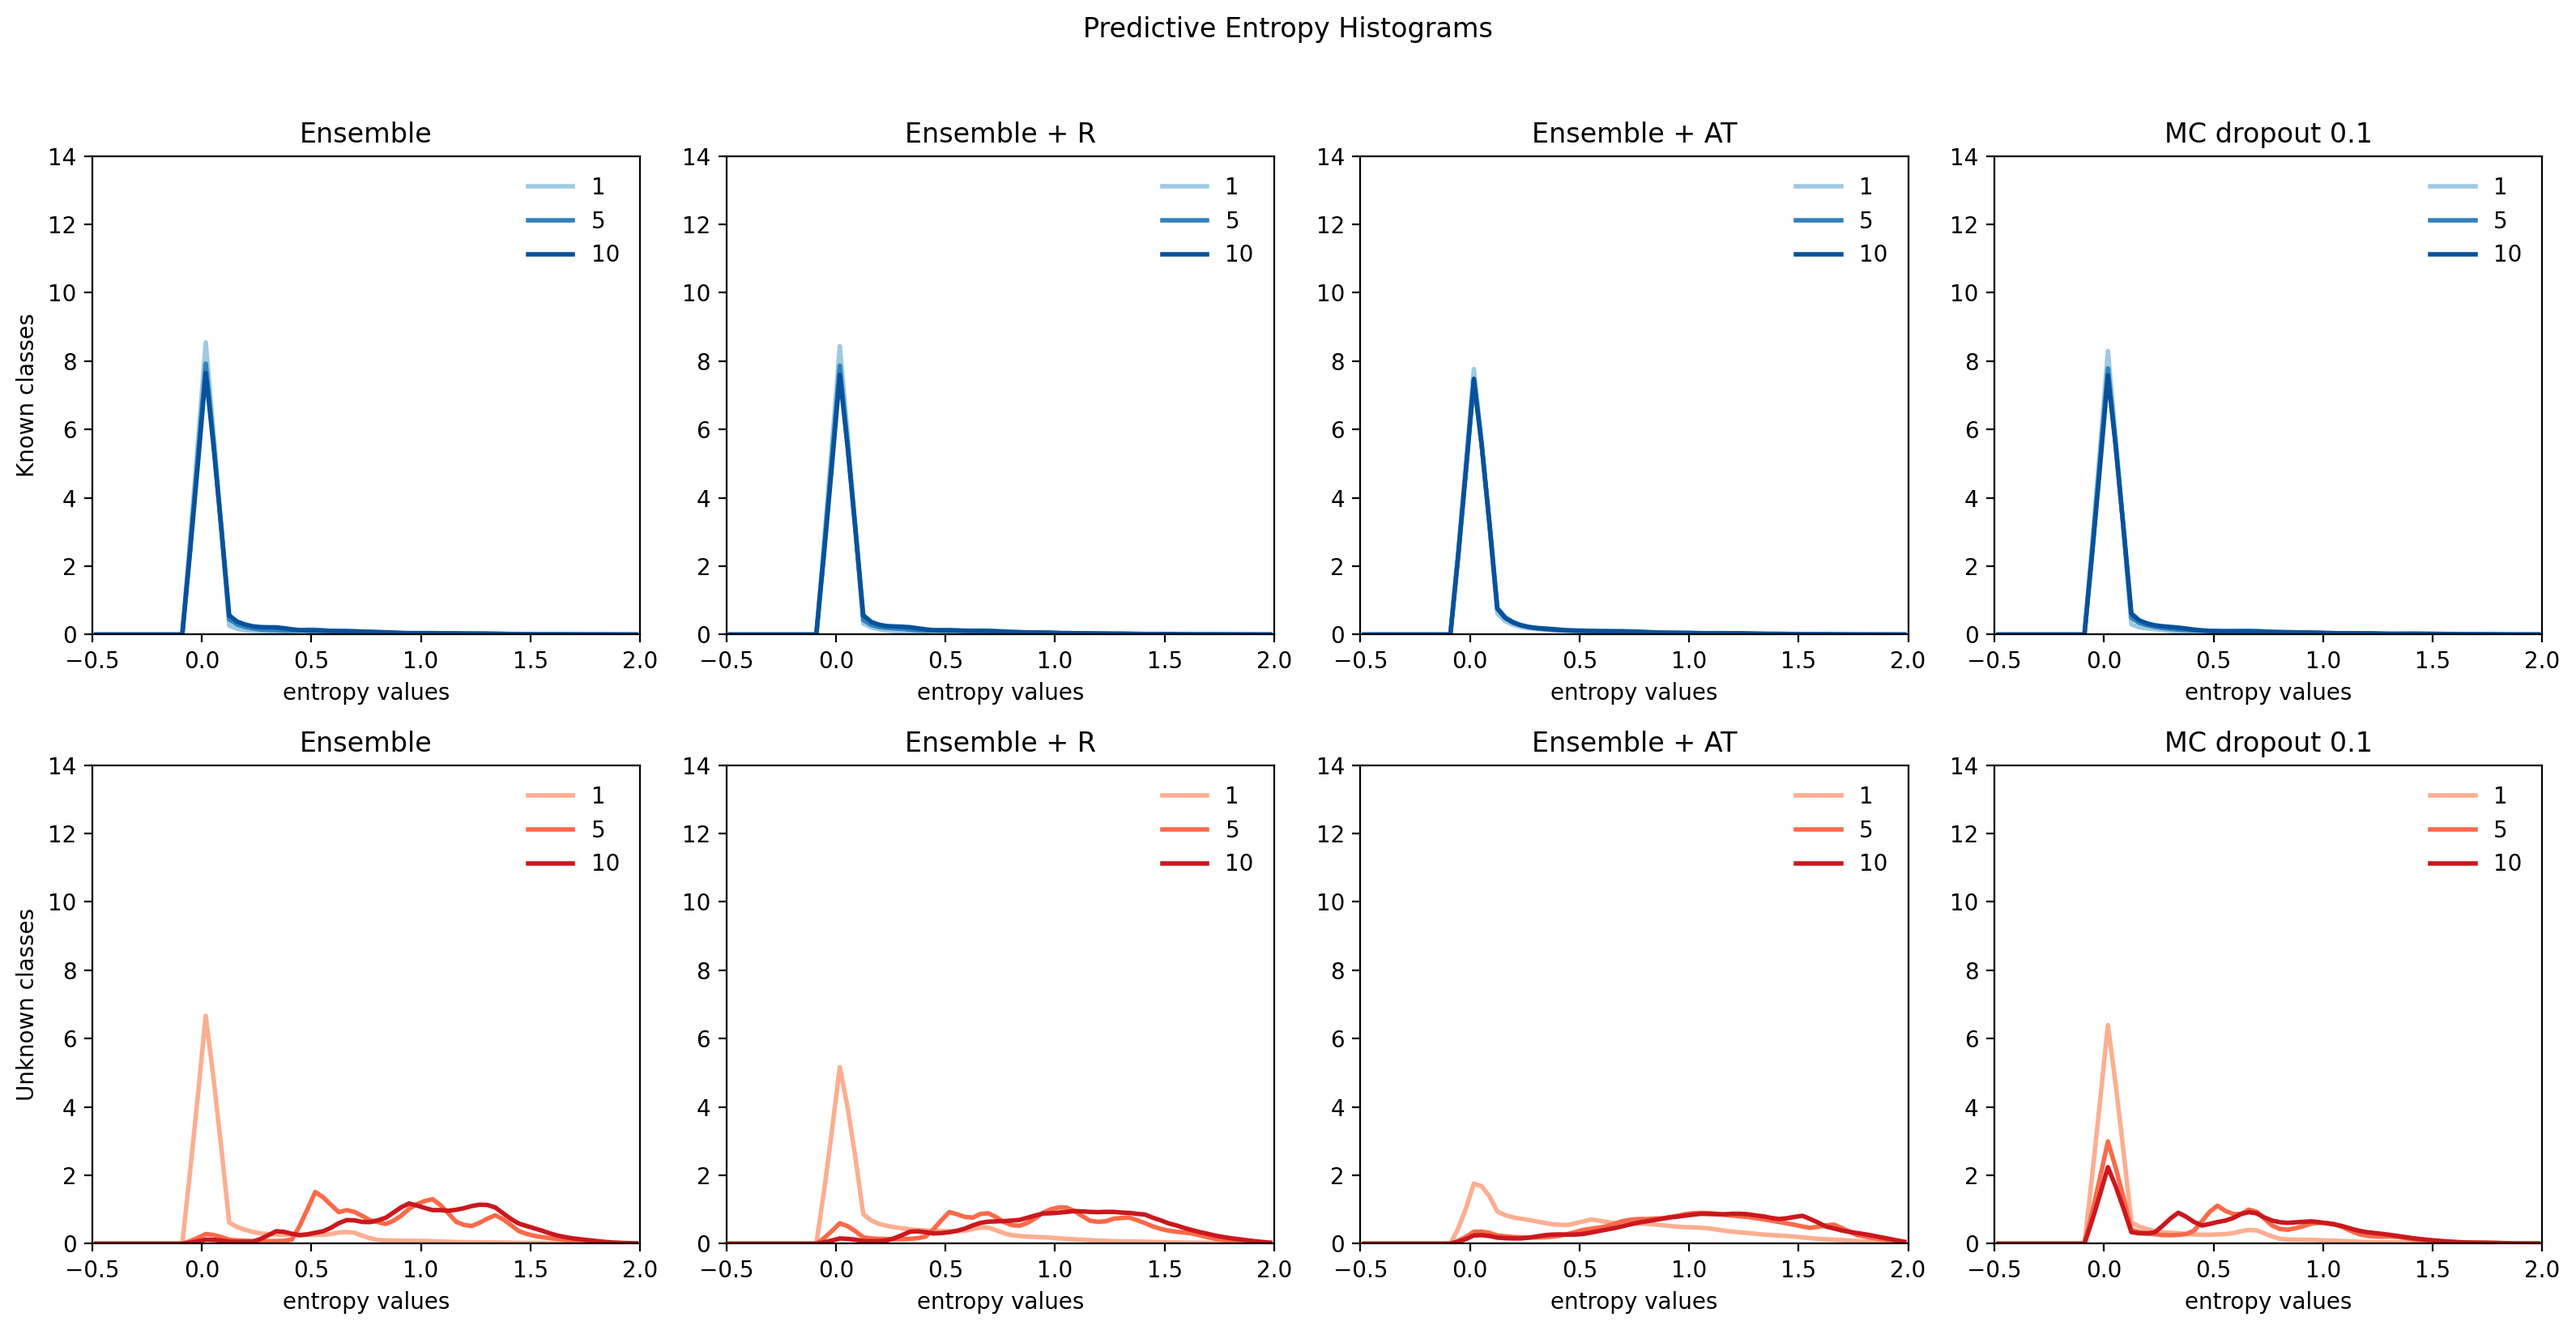
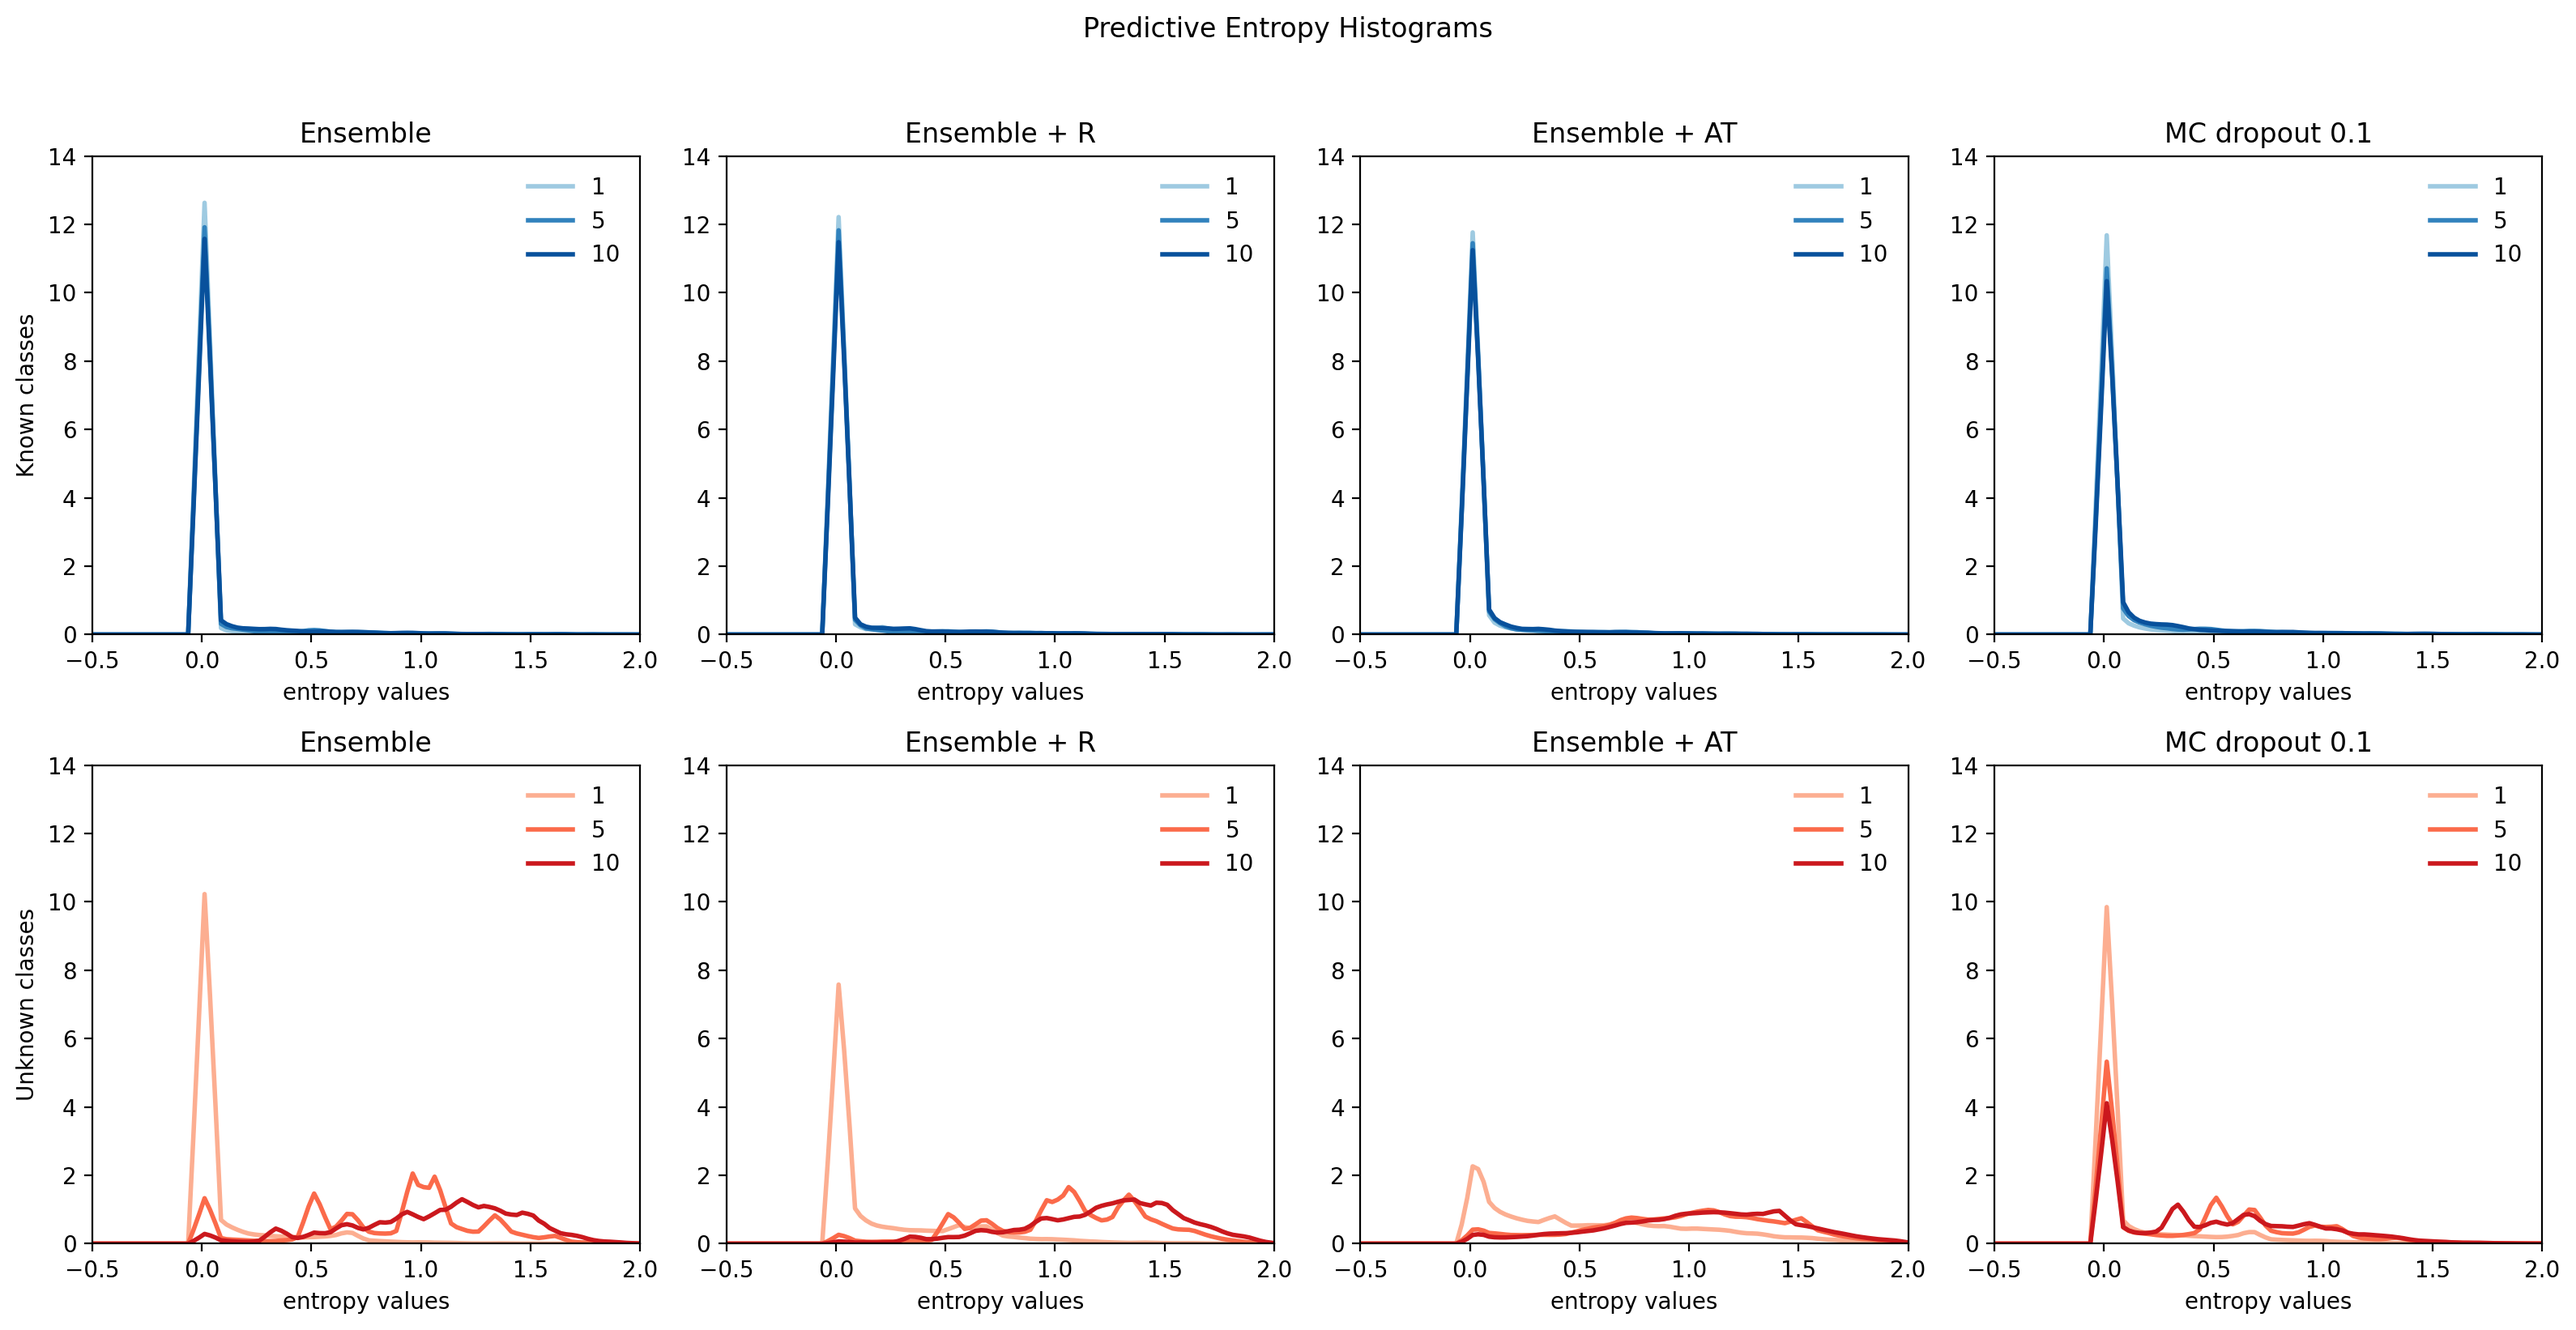
Update plots for epoch20

diff --git a/utils.py b/utils.py
@@ -23,18 +23,18 @@ def load_saved_ensemble(model_paths, device):
 def get_mnist_checkpoint_paths():
     checkpoint_paths = {
         "ensemble": [
-            f"models/classification/mnist/model_mnist_{i}.pt"
+            f"models/classification/mnist/epoch20/model_mnist_{i}.pt"
             for i in range(1, 16)
         ],
         "ensemble_random": [
-            f"models/classification/mnist/model_random_augmentation_mnist_{i}.pt"
+            f"models/classification/mnist/epoch20/model_random_augmentation_mnist_{i}.pt"
             for i in range(1, 16)
         ],
         "ensemble_adversarial": [
-            f"models/classification/mnist/model_adversarial_augmentation_mnist_{i}.pt"
+            f"models/classification/mnist/epoch20/model_adversarial_augmentation_mnist_{i}.pt"
             for i in range(1, 16)
         ],
-        "mc_dropout": "models/classification/mnist/model_mnist_mc_dropout.pt",
+        "mc_dropout": "models/classification/mnist/epoch20/model_mnist_mc_dropout.pt",
     }
     return checkpoint_paths
 

diff --git a/plotting.py b/plotting.py
@@ -14,6 +14,7 @@ def smooth_hist_line(values, bins=60, value_range=(-0.5, 2.1), smooth=False):
 
     return centers, hist
 
+
 # Figure 3
 def plot_entropy_comparison(experiment_results, ensemble_sizes=(1, 5, 10),
   save_path="plots/figure3_style_partial_replication.png"):
@@ -44,7 +45,7 @@ def plot_entropy_comparison(experiment_results, ensemble_sizes=(1, 5, 10),
         for M in ensemble_sizes:
             x, y = smooth_hist_line(
                 experiment_results[(method_key, M)]["mnist_entropy"].numpy(),
-                bins=70,
+                bins=100,
                 value_range=(-0.5, 2.0),
                 smooth=True
             )
@@ -56,7 +57,7 @@ def plot_entropy_comparison(experiment_results, ensemble_sizes=(1, 5, 10),
         for M in ensemble_sizes:
             x, y = smooth_hist_line(
                 experiment_results[(method_key, M)]["notmnist_entropy"].numpy(),
-                bins=70,
+                bins=100,
                 value_range=(-0.5, 2.0),
                 smooth=True
             )
